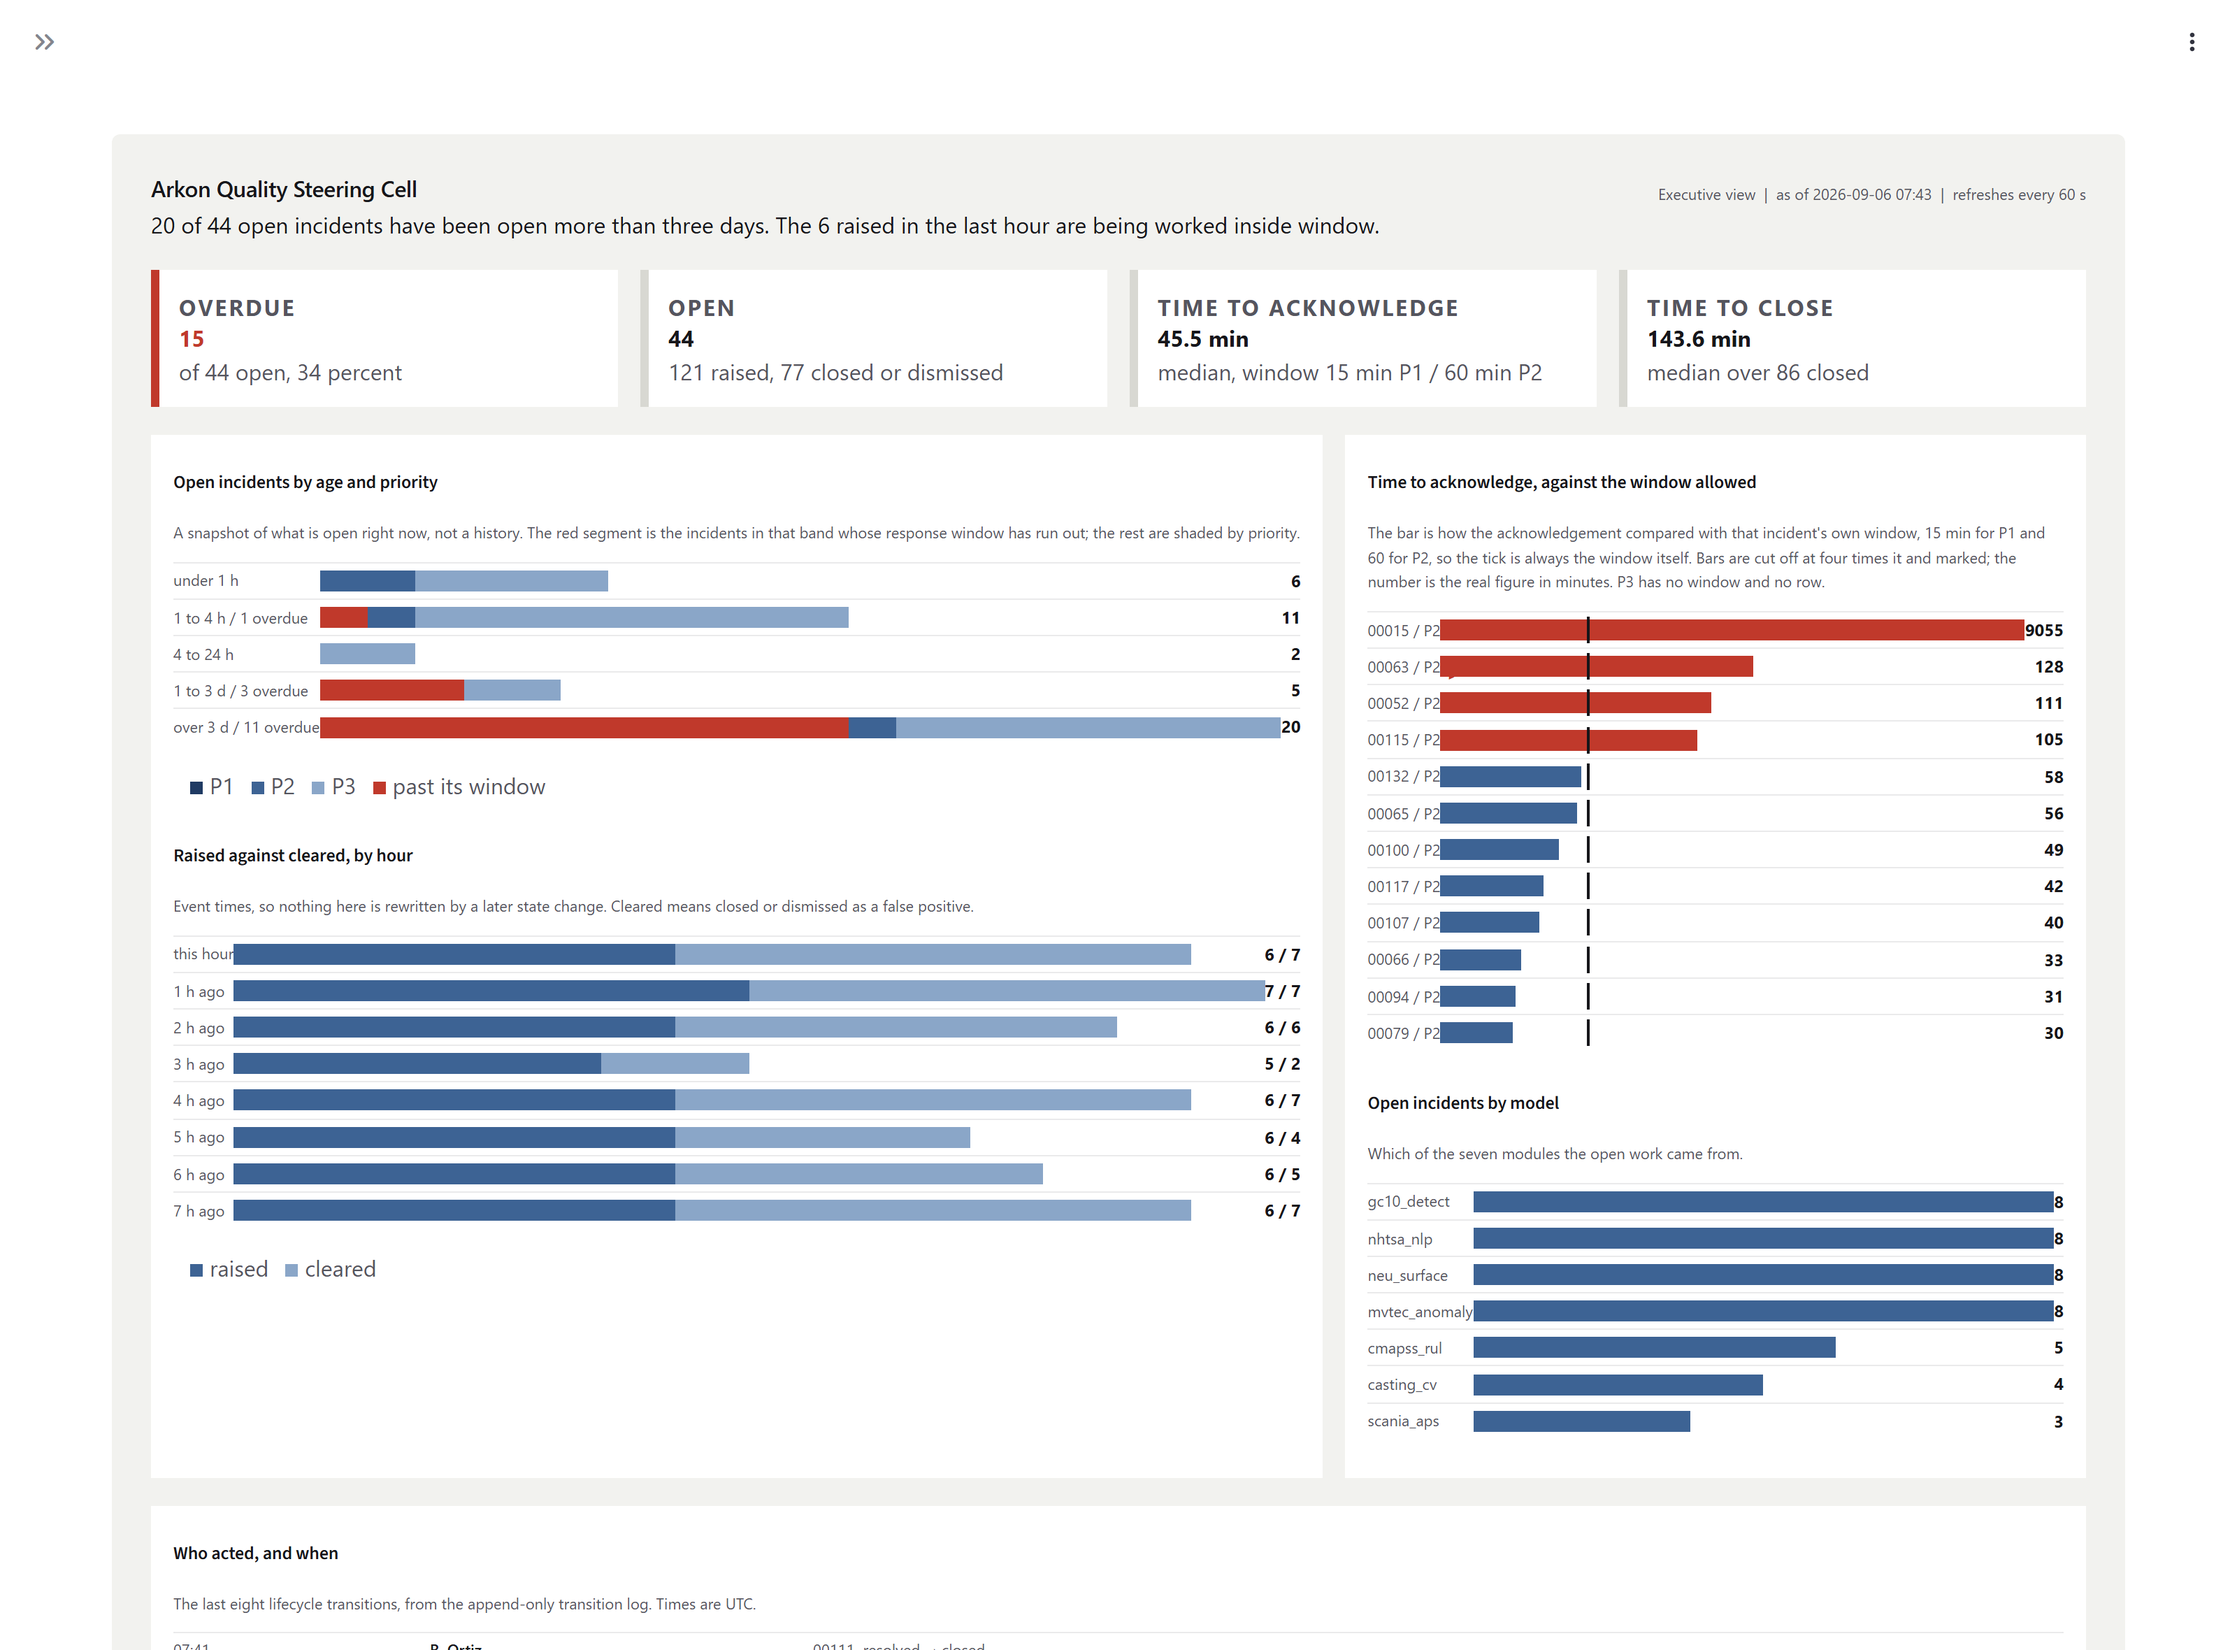
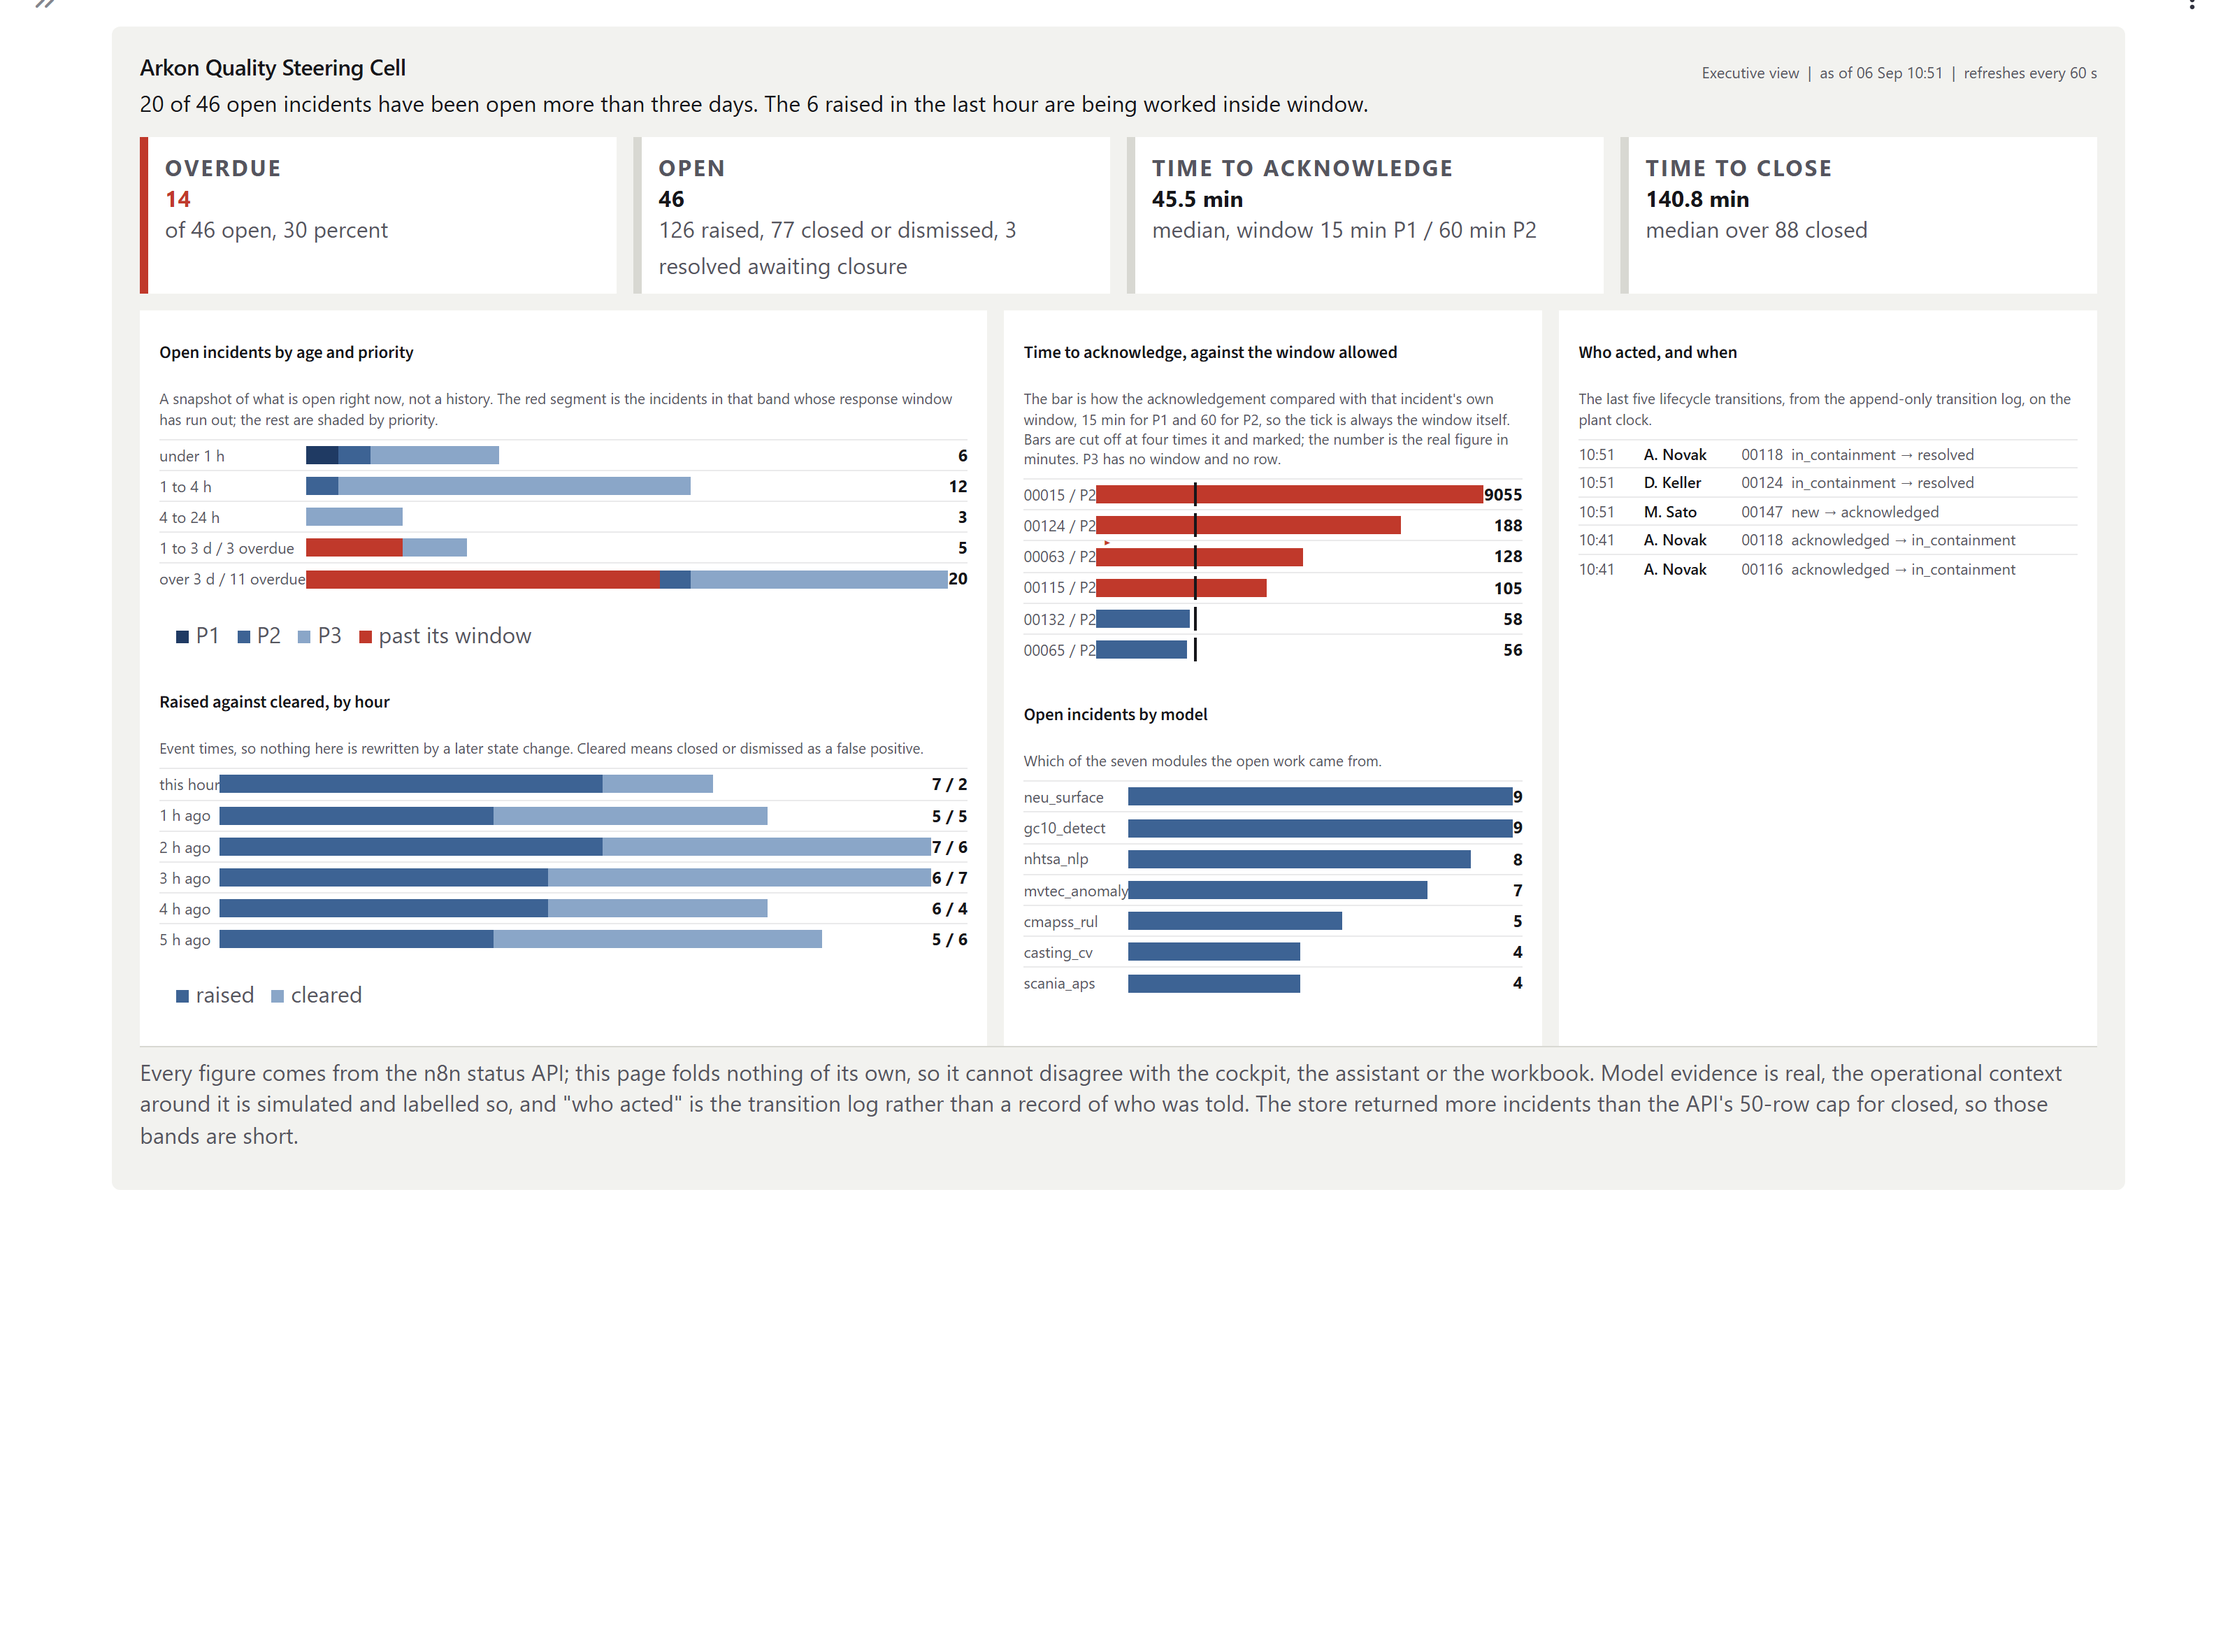
Put the board on the plant clock, and fit it on a laptop as well as a wall
The "as of" stamp and the activity feed printed the status API's UTC timestamps as
they came, so a board on a wall in Cologne read 08:44 while the room read 10:44. That
is the kind of wrongness nobody reports and everybody quietly stops trusting. Both now
render on Europe/Berlin, named explicitly rather than taken from the container's TZ so
the board cannot change meaning if that variable is ever unset. No new dependency: the
image already carries tzdata.

The height went from 846 px to 765 on a short screen, by tightening at max-height
rather than trimming content for everyone: a 1920x950 desktop had room to spare while
a 1366x768 laptop was 85 px over, and cutting rows to satisfy the smaller one would
have made the larger one worse. Thirty rows across three columns are where the height
actually is, so two pixels each is sixty pixels of screen.

Measured on the element that scrolls: one screen at 2560x1300, 1920x1080, 1920x950,
1600x900, 1440x780, 1366x768 and 1080x1920 portrait, with no horizontal overflow at
any size. 1280x720 is 76 px over, and tablet and phone stack and scroll by design.

diff --git a/app/pages/00_executive.py b/app/pages/00_executive.py
@@ -26,6 +26,7 @@ change the numbers under the sentence at the top.
 """
 
 import datetime
+from zoneinfo import ZoneInfo
 
 import streamlit as st
 
@@ -38,6 +39,28 @@ st.set_page_config(
 )
 
 REFRESH_SECONDS = 60
+
+# The plant's clock. Every timestamp the status API returns is UTC, and this page used
+# to print it as it came: a board on a wall in Cologne read 08:44 while the room read
+# 10:44, which is the kind of wrongness nobody reports and everybody quietly distrusts.
+# The zone is named rather than taken from the container's TZ, so the board does not
+# change meaning if that environment variable is ever unset. The image already carries
+# tzdata, so this adds no dependency.
+PLANT_TZ = ZoneInfo("Europe/Berlin")
+
+
+def local(stamp, fmt="%d %b %H:%M"):
+    """Render an API timestamp on the plant clock, or hand it back untouched."""
+    if not stamp:
+        return ""
+    try:
+        moment = datetime.datetime.fromisoformat(str(stamp).replace("Z", "+00:00"))
+    except ValueError:
+        return str(stamp)
+    if moment.tzinfo is None:
+        moment = moment.replace(tzinfo=datetime.timezone.utc)
+    return moment.astimezone(PLANT_TZ).strftime(fmt)
+
 
 # The bullet chart's fixed axis, in multiples of an incident's own window. Four
 # puts the window tick at a quarter of the track, which is where it can be seen.
@@ -151,6 +174,34 @@ CSS = """
      what answers the question in five seconds - the sentence, the four numbers and
      where the backlog is - and drops the rest, which is the same reduction the
      Tableau phone layout makes (Dashboard_Design_v3.md section 11). */
+  /* Short screens, by height rather than width: a 1440x780 laptop was 85 px over
+     while a 1920x950 desktop fitted with room to spare. Trimming content for
+     everyone to satisfy the smallest screen is the wrong trade, so the board
+     tightens itself instead and nothing is removed. */
+  @media (max-height: 820px) {
+    /* Streamlit's own container keeps a little padding even after the rule above;
+       on a 768 px laptop that is the last twenty pixels between fitting and not. */
+    .stMain .block-container { padding-top: 0.35rem; padding-bottom: 0.15rem; }
+    .arkon-board { padding: 4px 16px 4px 16px; }
+    .ark-title { font-size: 18px; }
+    .ark-eyebrow { padding-top: 5px; }
+    .ark-status { font-size: 11.5px; margin-top: 3px; }
+    .ark-cards { margin-top: 6px; gap: 10px; }
+    .ark-card { padding: 6px 12px 6px 10px; }
+    .ark-ban { font-size: 27px; margin: 1px 0 0 0; }
+    .ark-panels { margin-top: 6px; gap: 10px; }
+    .ark-panel { padding: 8px 12px 6px 12px; }
+    .ark-panel p.sub { margin-bottom: 2px; line-height: 1.28; }
+    .ark-panel h3 { font-size: 12px; }
+    /* The rows are where the height actually is: about thirty of them across the
+       three columns, so two pixels each is sixty pixels of screen. */
+    table.ark-rows td { padding: 0; }
+    .ark-track { height: 11px; }
+    .ark-seg { height: 11px; }
+    .ark-tick { height: 15px; }
+    .ark-legend { margin-top: 2px; }
+    .ark-foot { margin-top: 6px; padding-top: 4px; }
+  }
   @media (max-width: 1100px) {
     .ark-panels { flex-direction: column; }
     .ark-panel { flex: 1 1 auto !important; }
@@ -446,7 +497,7 @@ def board():
     feed.sort(key=lambda row: row[0], reverse=True)
     feed_html = ['<table class="ark-rows ark-feed">']
     for recorded_at, step, incident in feed[:5]:
-        stamp = recorded_at[11:16] if len(recorded_at) > 16 else recorded_at
+        stamp = local(recorded_at, "%H:%M") or recorded_at
         feed_html.append(
             '<tr><td class="t">%s</td><td class="a">%s</td>'
             '<td class="m">%s &nbsp;%s &rarr; %s</td></tr>'
@@ -513,14 +564,14 @@ def board():
         '  <div class="ark-panel ark-narrow-drop" style="flex:1 1 0">'
         '    <h3>Who acted, and when</h3>'
         '    <p class="sub">The last five lifecycle transitions, from the append-only '
-        'transition log. Times are UTC.</p>'
+        'transition log, on the plant clock.</p>'
         '    %(feed)s'
         '  </div>'
         '</div>'
         '<p class="ark-foot">Every figure comes from the n8n status API; this page folds nothing of its own, so it cannot disagree with the cockpit, the assistant or the workbook. Model evidence is real, the operational context around it is simulated and labelled so, and &quot;who acted&quot; is the transition log rather than a record of who was told.%(truncation)s</p>'
         '</div>'
     ) % {
-        "as_of": as_of.replace("T", " ")[:16] if as_of else "an unknown time",
+        "as_of": local(as_of) or "an unknown time",
         "refresh": REFRESH_SECONDS,
         "sentence": status_sentence(incidents),
         "cards": card_html,
